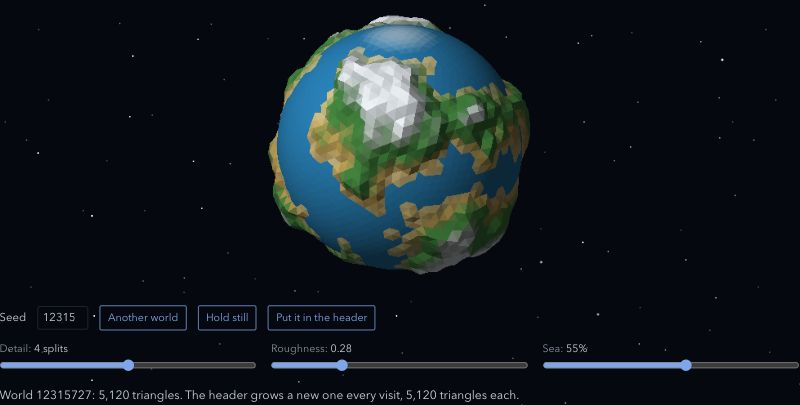
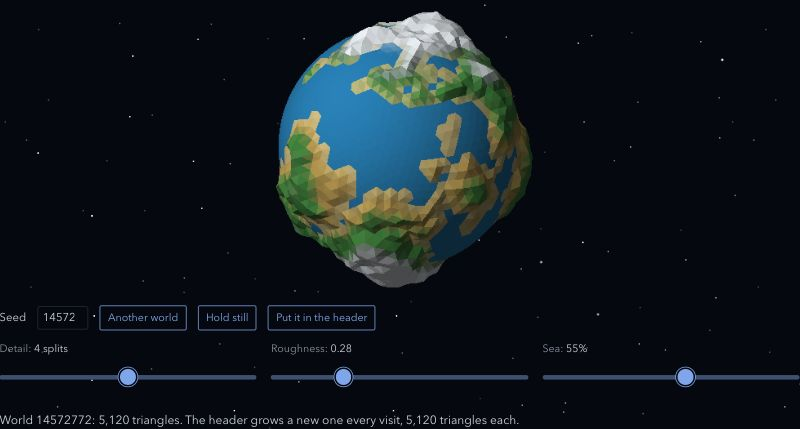
home: in the dark theme the cards' pictures are dark too — the tool takes them with THEME=dark, a card titled "card dark" carries both, and the stylesheet shows the one the theme wants, the other never fetched; the light ones taken again, with the sliders as they are now

diff --git a/src/platform/markdown/renderInline.ts b/src/platform/markdown/renderInline.ts
@@ -19,9 +19,16 @@ const SIZES = ["large", "wide", "card"];
  * The title of an image is where its size goes: `"large"` or `"wide"`, or
  * `"card"` for the picture a layout of cards shows beside an entry and the
  * plain one does not. A card waits to be fetched until it is shown, so a
- * reader who never sees it never downloads it. Any other title is left alone.
+ * reader who never sees it never downloads it. `"card dark"` is a card with a
+ * picture for the dark theme beside it, named `-dark`: both are written, and
+ * the stylesheet shows the one the theme wants — the other, never shown, is
+ * never fetched. Any other title is left alone.
  */
 function image(alt: string, src: string, title?: string): string {
+  if (title === "card dark") {
+    const dark = src.replace(/(\.[a-z]+)$/, "-dark$1");
+    return `<img src="${escapeHtml(src)}" alt="${escapeHtml(alt)}" class="card shot-light" loading="lazy"><img src="${escapeHtml(dark)}" alt="${escapeHtml(alt)}" class="card shot-dark" loading="lazy">`;
+  }
   const size = title && SIZES.includes(title) ? ` class="${title}"` : "";
   const lazy = title === "card" ? ' loading="lazy"' : "";
   return `<img src="${escapeHtml(src)}" alt="${escapeHtml(alt)}"${size}${lazy}>`;

diff --git a/src/platform/markdown/renderInline.test.ts b/src/platform/markdown/renderInline.test.ts
@@ -65,6 +65,15 @@ describe("renderInline", () => {
   });
 });
 
+describe("renderInline images, light and dark", () => {
+  it("gives a card with a dark picture both pictures, for the stylesheet to show the one the page's theme wants", () => {
+    expect(renderInline('![The fish market](/projects/shots/fish-market.jpg "card dark")')).toBe(
+      '<img src="/projects/shots/fish-market.jpg" alt="The fish market" class="card shot-light" loading="lazy">' +
+        '<img src="/projects/shots/fish-market-dark.jpg" alt="The fish market" class="card shot-dark" loading="lazy">',
+    );
+  });
+});
+
 describe("renderInline images", () => {
   it("places an image, with its words for whoever cannot see it", () => {
     expect(renderInline("![The cover](/book/cover.jpeg)")).toBe('<img src="/book/cover.jpeg" alt="The cover">');

diff --git a/src/styles.css b/src/styles.css
@@ -3314,6 +3314,26 @@ main math[display="block"] {
   margin-bottom: 0.4em;
 }
 
+/* ---- a picture with a dark one beside it: the theme picks, and only the one shown is fetched ---- */
+
+:root[data-theme="light"] img.shot-dark,
+:root[data-theme="pink"] img.shot-dark,
+:root[data-theme="dark"] img.shot-light {
+  display: none;
+}
+
+@media (prefers-color-scheme: light) {
+  :root:not([data-theme="dark"]) img.shot-dark {
+    display: none;
+  }
+}
+
+@media (prefers-color-scheme: dark) {
+  :root:not([data-theme="light"]):not([data-theme="pink"]) img.shot-light {
+    display: none;
+  }
+}
+
 /* ---- portfolio: a trial, off unless asked for ---- */
 
 /* A card's picture belongs to the card layout; the plain one is words. */

diff --git a/content/index.md b/content/index.md
@@ -55,19 +55,19 @@ longest:
 - ![The Rocinante Simulator: the inner solar system in three dimensions, and the ship's dials](/rocinante-simulator.jpg "card") [A relativistic rocket](/projects/rocinante/)  
   Both clocks, the ship's and home's, and the fuel.
 
-- ![The auction floor: five buyers and a box of prawns](/projects/shots/fish-market.jpg "card") [The agent that won the fish auction](/projects/fish-market/)  
+- ![The auction floor: five buyers and a box of prawns](/projects/shots/fish-market.jpg "card dark") [The agent that won the fish auction](/projects/fish-market/)  
   A Dutch auction, December 2000. Seat your own agent.
 
-- ![The Fibergochi, a stick figure in a yellow egg](/projects/shots/fibergochi.jpg "card") [The Fibergochi](/projects/fibergochi/)  
+- ![The Fibergochi, a stick figure in a yellow egg](/projects/shots/fibergochi.jpg "card dark") [The Fibergochi](/projects/fibergochi/)  
   A student kept like a Tamagotchi, 1999. Playable.
 
-- ![A letter A drawn on a grid, and the network reading it](/projects/shots/letters.jpg "card") [My first neural network](/projects/first-network/)  
+- ![A letter A drawn on a grid, and the network reading it](/projects/shots/letters.jpg "card dark") [My first neural network](/projects/first-network/)  
   Letters told apart by backpropagation, first written in C in 1994. Draw your own.
 
-- ![The source of this site as boxes and arrows, the features above the frame they stand on](/projects/shots/architecture.jpg "card") [How this site is built](/projects/architecture/)  
+- ![The source of this site as boxes and arrows, the features above the frame they stand on](/projects/shots/architecture.jpg "card dark") [How this site is built](/projects/architecture/)  
   Its source as boxes and arrows, commit by commit: the program an AI wrote, and the rules it is held to.
 
-- ![A fractal planet of seas, land and snow](/projects/shots/worlds.jpg "card") [The planet in the header](/projects/worlds/)  
+- ![A fractal planet of seas, land and snow](/projects/shots/worlds.jpg "card dark") [The planet in the header](/projects/worlds/)  
   Grown as this page opened, by a program I wrote in 2000. Reload for another.
 
 [All of them.](/projects/)

diff --git a/CLAUDE.md b/CLAUDE.md
@@ -41,7 +41,8 @@ traced, write the weaker sentence.
   one commit and cannot see the others
 - `node tools/shoot-projects.mjs [names...]` — photograph the programs
   running on their pages into `public/projects/shots/`, for the cards; needs
-  `npm run dev` running (`SITE=` if it is not on 5173)
+  `npm run dev` running (`SITE=` if it is not on 5173); `THEME=dark` takes
+  the dark ones, `name-dark.jpg`, which a card titled `"card dark"` shows
 - `node tools/write-favicon.mjs [seed]` — grow one still world into
   `public/favicon.png`, the icon a browser has before the script runs
 
